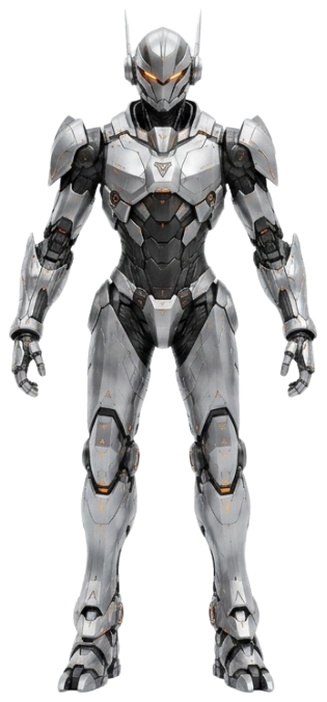
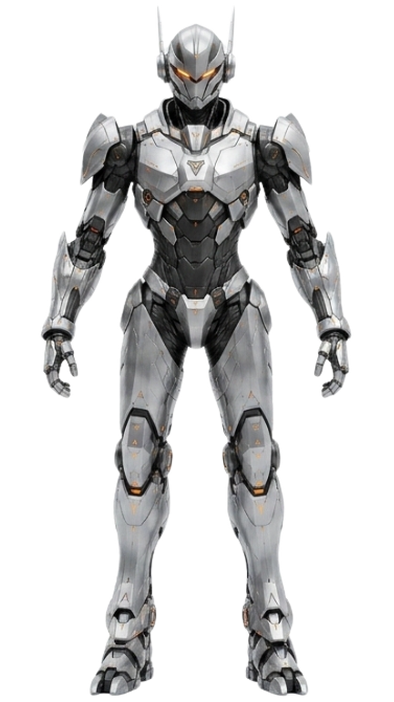
fix: standardize ranger and technician sprite canvas to 394x702 and restrict clipHead overlay to warrior

diff --git a/src/components/ArctronGearOverlay.jsx b/src/components/ArctronGearOverlay.jsx
@@ -2,6 +2,7 @@ import React, { useMemo } from 'react'
 import { resolveItemImage } from '../store/gameStore'
 import { proxyUrl, GearImg, CalibrateDot } from './GearOverlay'
 import ArctronSprite from './ArctronSprite'
+import { getJobLane } from './PilotSprites'
 
 // Calibrated for full-body front-view sprite: W=780, H=936.
 // Coords are fractions of the HEIGHT value.
@@ -28,6 +29,7 @@ export default function ArctronGearOverlay({ player, width, height = 298, calibr
   const race = player?.race
   const job = player?.job
   const gender = player?.gender
+  const lane = getJobLane(job)
 
   const layers = useMemo(() => {
     const out = []
@@ -99,7 +101,7 @@ export default function ArctronGearOverlay({ player, width, height = 298, calibr
       ...extraStyle
     }}>
       {children}
-      {!eq.helmet && (
+      {!eq.helmet && lane === 'warrior' && (
         <div style={{ position: 'absolute', top: 0, left: 0, width: '100%', height: '100%', zIndex: 4, pointerEvents: 'none' }}>
           <ArctronSprite job={job} width="100%" height="100%" clipHead={true} />
         </div>

diff --git a/src/components/ArctronSprite.jsx b/src/components/ArctronSprite.jsx
@@ -19,7 +19,7 @@ export default function ArctronSprite({ job, size = 60, width, height, upperBody
       glow={glow} 
       extraStyle={{
         ...extraStyle,
-        ...(clipHead ? { clipPath: 'inset(0% 36% 84% 36%)', zIndex: 4 } : {})
+        ...(clipHead && lane === 'warrior' ? { clipPath: 'inset(0% 36% 84% 36%)', zIndex: 4 } : {})
       }} 
     />
   )
